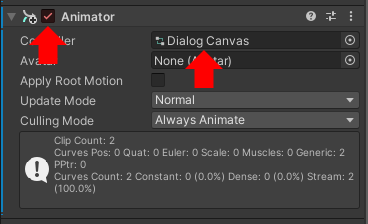
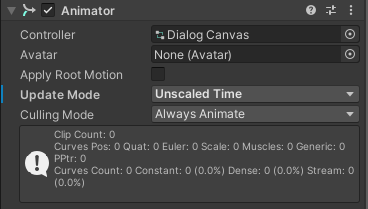
[DOCS] Dialog setup

diff --git a/SETUP.md b/SETUP.md
@@ -152,7 +152,6 @@ public class TaleTest : MonoBehaviour
         Tale.Exec(() => Debug.Log("Tale works."));
     }
 }
-
 ```
 
 Make sure to name the script `TaleTest.cs`. Press `Play` and check if `Tale works.` is logged. If so, Tale was correctly set up. You may now add optional
@@ -272,8 +271,8 @@ It is recommended to save the animations in `Assets/Animations/Tale`.
   <img src="public/setup/tale_dialog_canvas_animation_path.png" alt="Tale dialog canvas animation path">
 </p>
 
-Make sure the dialog canvas has an `Animator` component and that the controller is set correctly. Make sure that the animator component
-is enabled (it may be disabled by default).
+Make sure the dialog canvas has an **active** `Animator` component and that the controller is set correctly.
+Set the update mode to `Unscaled Time`.
 
 <p align="center">
   <img src="public/setup/tale_dialog_canvas_animator_component.png" alt="Tale dialog canvas animator component">
@@ -297,8 +296,8 @@ Create a new state called `Idle`, and set it as the layer default state.
   <img src="public/setup/tale_dialog_canvas_animator_idle.png" alt="Tale dialog canvas animator idle">
 </p>
 
-For both animations, make sure to uncheck `Write Defaults`. It may interfere with Tale if left enabled,
-because Tale changes some properties of the canvas object behind the scenes and these changes may be overwritten by the animation.
+For all states, make sure to uncheck `Write Defaults`. It may interfere with Tale if left checked,
+because Tale changes some properties of the canvas object behind the scenes and these changes may be overwritten by the states.
 
 <p align="center">
   <img src="public/setup/tale_dialog_canvas_animator_write_defaults.png" alt="Tale dialog canvas animator write defaults">
@@ -402,3 +401,50 @@ Other config options for the dialog are:
 - DIALOG_KEY_SKIP: the key which, when held down, instantly skips over the dialog
 - DIALOG_ADDITIVE_SEPARATOR: when an additive dialog action is executed, this will be appended to the old content. If this is `" "`, writing `Test.` after `Hello.`
 in additive mode will yield `Hello. Test.`.
+
+#### Finishing up
+
+After setting up the dialog module, make sure that:
+
+- the dialog canvas is **not active**, and has its properties set to the same values as the starting values for the DialogIn animation (e.g. if your animation
+changes the canvas opacity from 0 to 1, make sure the canvas opacity is 0; only do this if animations are present)
+- The event system object is **active**
+- the actor and content objects are **active** and have **no text**
+- the CTC and ACTC are **not active** (if present)
+
+Tale will automatically activate and deactivate the props when needed, and expects these initial values.
+
+In order for Tale to make use of the dialog module props, you need to register these props in the Tale master object.
+Simply click on the master object and drag the objects where they belong.
+
+<p align="center">
+  <img src="public/setup/tale_dialog_props.png" alt="Tale dialog props">
+</p>
+
+#### Test
+
+You can test the dialog module by creating a dialog action. In this example, the previously mentioned test script is used:
+
+```
+using UnityEngine;
+
+public class TaleTest : MonoBehaviour
+{
+    void Start()
+    {
+        Tale.Exec(() => Debug.Log("Tale works."));
+        Tale.Exec(() => Debug.Log("Testing Dialog..."));
+
+        Tale.Dialog("Test Actor", "Test Content");
+    }
+}
+```
+
+> Note: When you click Play in the editor, the deltaTime may be unstable in the first few frames. Because of this, if you
+> create a dialog action right at the start, the DialogIn animation may have most of its frames skipped, making it look like
+> the animation doesn't play. In this example, it should work fine because there are two exec actions before the dialog action,
+> so it takes multiple frames to reach the dialog action (at which point the deltaTime is not as unstable). This may only be an
+> issue if you create a dialog action that executes immediately after the Play button is pressed. This issue should not appear
+> in builds.
+>
+> A fix for this issue is to use Tale.Wait(0.001f) at the beginning.
